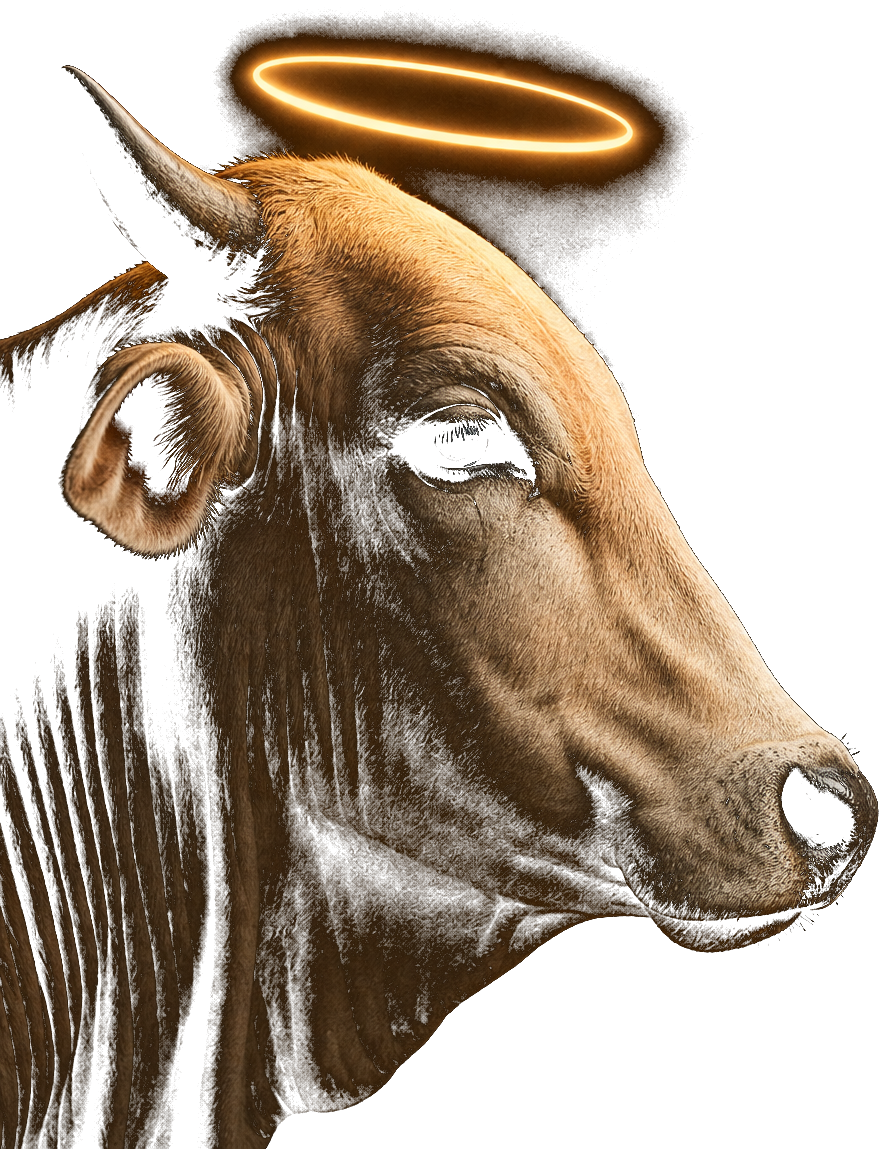
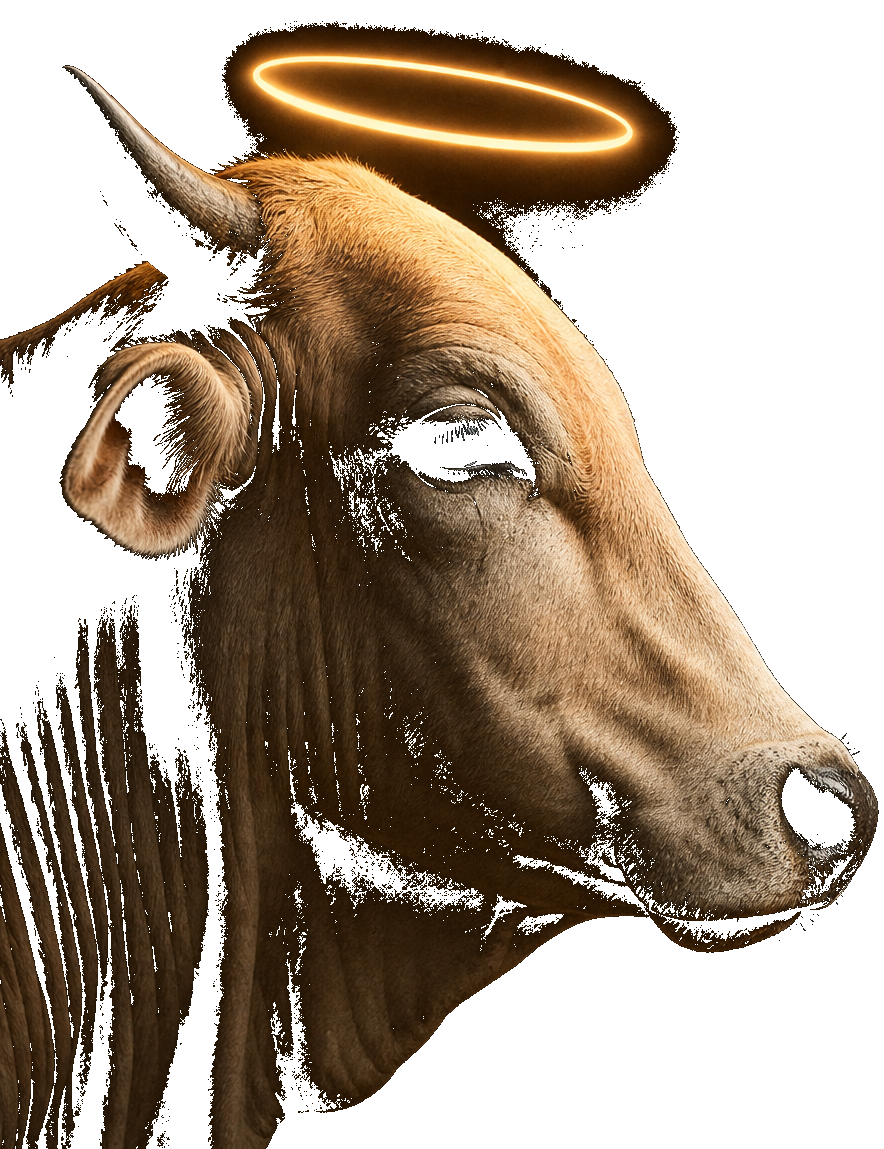
codex: slide 3 — center animals, show whole image, hard alpha threshold
- Hard alpha mask (brightness > 18 → opaque, else 0): no feather, eliminates
  semi-transparent darkening tint around animals
- Cow: height clamp(65-78-90vh), left: 1vw (was clamp(82-96-110), -8vw)
- Hektor: height clamp(58-70-82vh), right: 1vw (was clamp(78-92-106), -12vw)
- Mobile: cow clamp(45-58-70vh), hektor clamp(42-52-64vh), 2vw offsets
- Animals now fully visible (head + neck + part of body), positioned closer to
  center text overlay, BG mosaic shows uniformly around them

Per Matej: "obrázky daj čo najviac do stredu... pes je moc schovany aj krava
musí vidno celý obrázok! a odstráň čiernu farbu za kravou".

diff --git a/src/pages/Codex.tsx b/src/pages/Codex.tsx
@@ -659,13 +659,13 @@ export default function Codex() {
           /* black BG of PNG blends with page BG */
         }
         .codex-cow {
-          height: clamp(82vh, 96vh, 110vh);
-          left: -8vw;
+          height: clamp(65vh, 78vh, 90vh);
+          left: 1vw;
           transform: translateY(-50%);
         }
         .codex-hektor {
-          height: clamp(78vh, 92vh, 106vh);
-          right: -12vw;
+          height: clamp(58vh, 70vh, 82vh);
+          right: 1vw;
           transform: translateY(-50%);
         }
         .codex-3-overlay {
@@ -733,8 +733,8 @@ export default function Codex() {
             drop-shadow(0 0 5px rgba(230,158,26,0.36));
         }
         @media (max-width: 767px) {
-          .codex-cow { height: clamp(58vh, 74vh, 86vh); left: -8vw; }
-          .codex-hektor { height: clamp(58vh, 72vh, 84vh); right: -10vw; }
+          .codex-cow { height: clamp(45vh, 58vh, 70vh); left: 2vw; }
+          .codex-hektor { height: clamp(42vh, 52vh, 64vh); right: 2vw; }
           .codex-3-overlay { max-width: 320px; gap: 14px; }
           .codex-stat-number { font-size: clamp(2rem, 12vw, 3rem); }
           .codex-stat-sub { font-size: 0.7rem; letter-spacing: 0.12em; }
